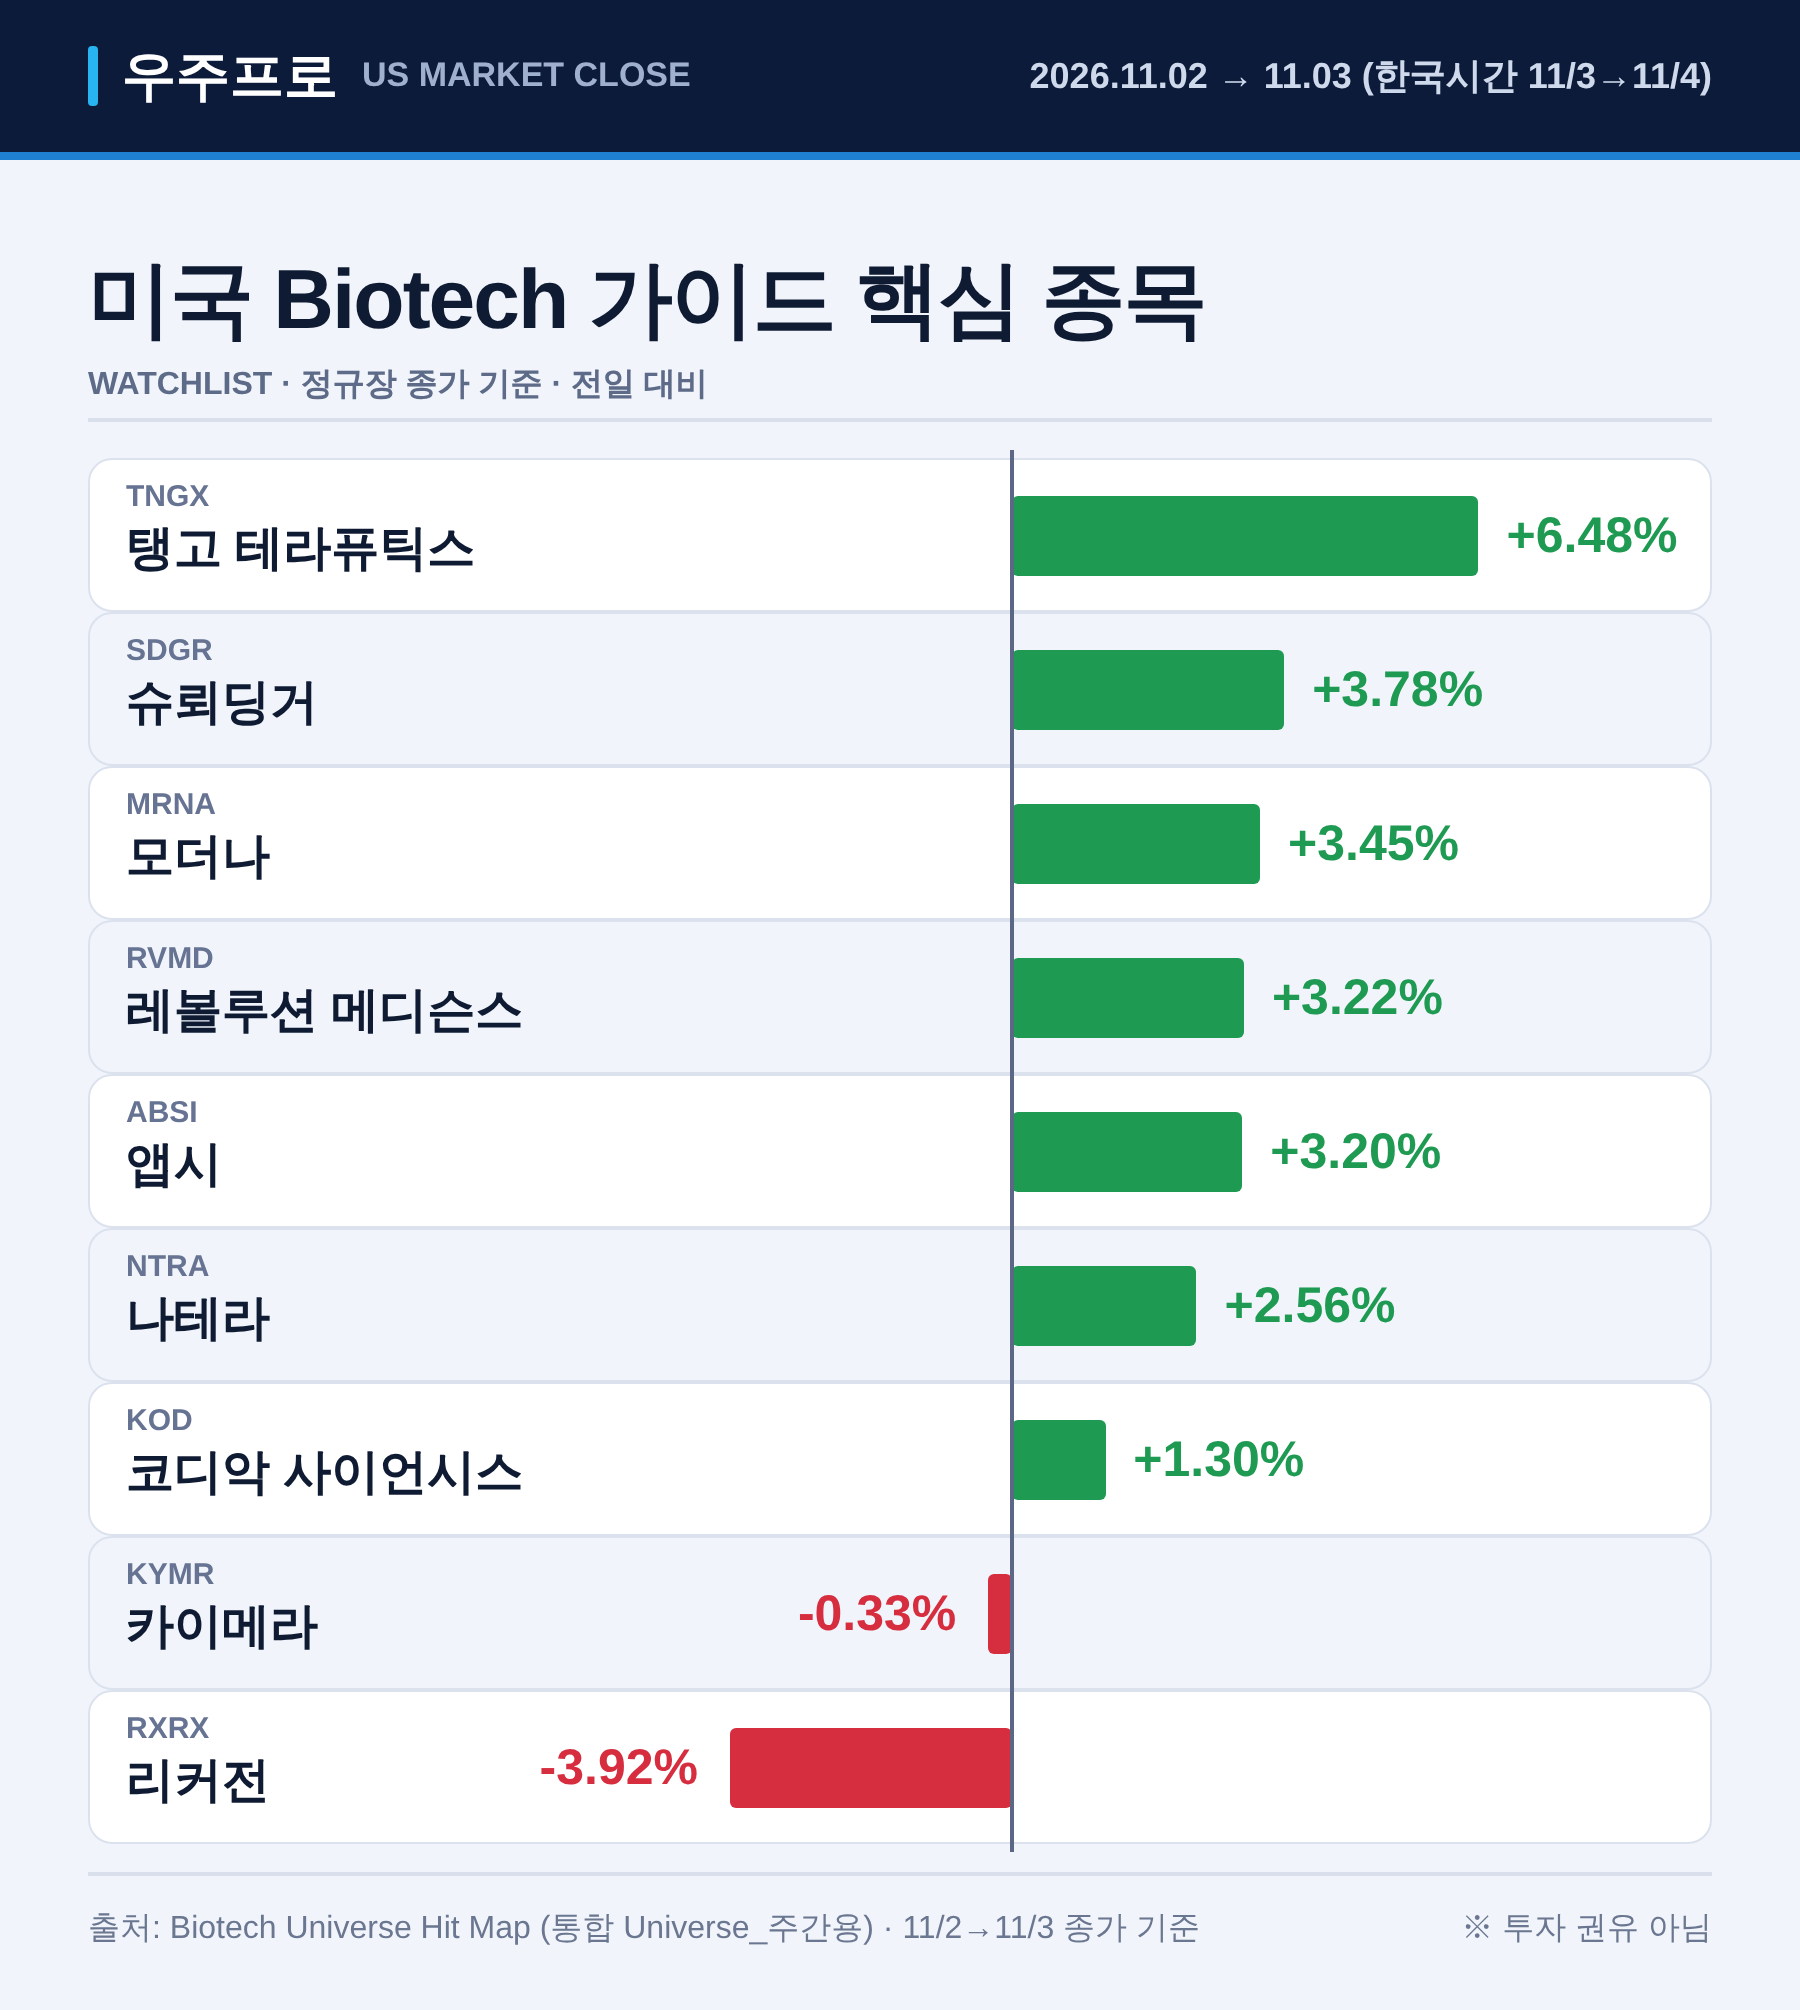
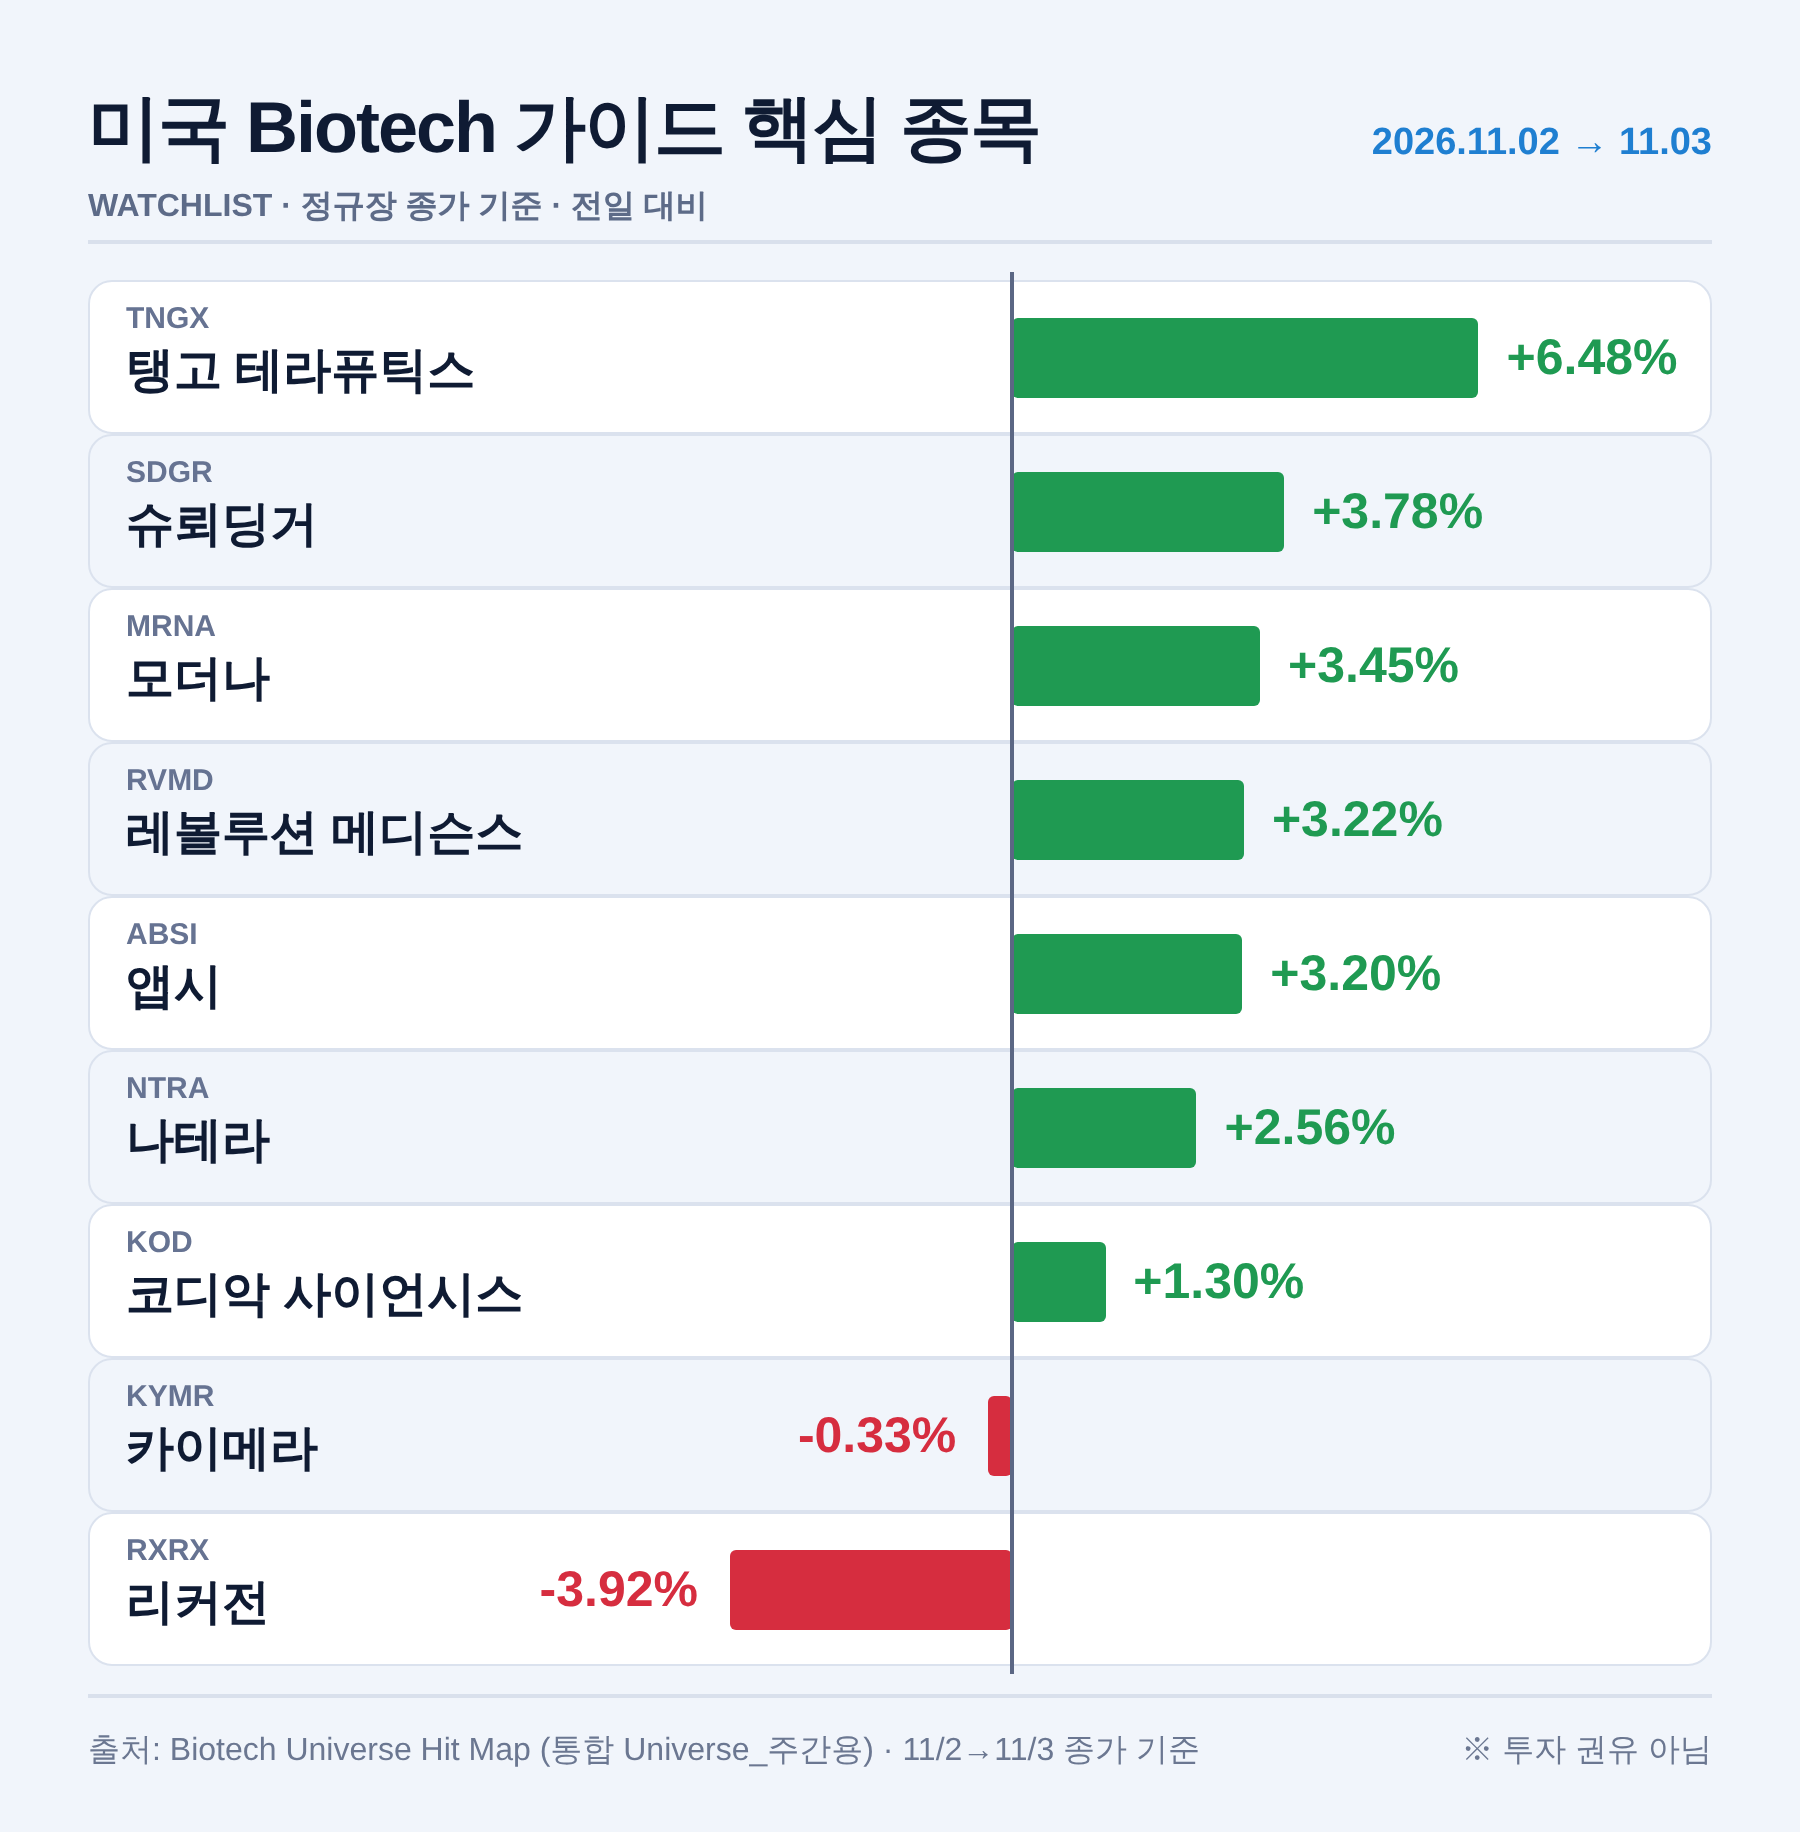
Tornado chart: remove top header bar, move period to title row
Claude-Session: https://claude.ai/code/session_01NG8EEkhpk8MGrziH94CW11

diff --git a/biotech_tornado.html b/biotech_tornado.html
@@ -7,8 +7,8 @@
 .hd .l i{width:5px;height:30px;background:#27b4f0;border-radius:2px}
 .hd .l small{font-size:17px;color:#9fb0cf;font-weight:700}
 .hd .r{color:#cfd9ec;font-size:18px;font-weight:700}
-.bd{padding:42px 44px 0}
-h1{margin:0;font-size:42px;font-weight:800;letter-spacing:-1px}
+.bd{padding:40px 44px 0}.top{display:flex;justify-content:space-between;align-items:flex-end}.per{white-space:nowrap;color:#1f7fd1;font-size:19px;font-weight:800;padding-bottom:6px}
+h1{margin:0;white-space:nowrap;font-size:36px;font-weight:800;letter-spacing:-1px}
 .sub{display:flex;justify-content:space-between;color:#5d6b88;font-weight:700;font-size:16px;margin-top:4px;padding-bottom:6px;border-bottom:2px solid #d9e0ec}
 .sub b{color:#1f7fd1}
 .rows{position:relative;margin-top:18px}
@@ -24,8 +24,7 @@ h1{margin:0;font-size:42px;font-weight:800;letter-spacing:-1px}
 .ft{margin-top:26px;color:#6b7791;font-size:16px;padding-bottom:6px}
 .src{border-top:2px solid #d9e0ec;margin-top:14px;padding:16px 0 30px;display:flex;justify-content:space-between;color:#6b7791;font-size:16px}
 </style></head><body><div id="c">
-<div class="hd"><div class="l"><i></i>우주프로 <small>US MARKET CLOSE</small></div><div class="r" id="per"></div></div>
-<div class="bd"><h1>미국 Biotech 가이드 핵심 종목</h1>
+<div class="bd"><div class="top"><h1>미국 Biotech 가이드 핵심 종목</h1><div class="per" id="per"></div></div>
 <div class="sub"><span>WATCHLIST · 정규장 종가 기준 · 전일 대비</span><b id="n"></b></div>
 <div class="rows" id="rows"><div class="axis" id="ax"></div></div>
 <div class="src"><span>출처: Biotech Universe Hit Map (통합 Universe_주간용) · 11/2→11/3 종가 기준</span><span>※ 투자 권유 아님</span></div></div></div>
@@ -34,7 +33,7 @@ const D=[["TNGX","탱고 테라퓨틱스",21.76,23.17],["SDGR","슈뢰딩거",26
 .map(d=>({t:d[0],n:d[1],p:d[2],q:d[3],c:(d[3]/d[2]-1)*100})).sort((a,b)=>b.c-a.c);
 const Z=505-44,S=36,R=document.getElementById('rows');
 document.getElementById('ax').style.left=Z+'px';
-document.getElementById('per').textContent='2026.11.02 → 11.03 (한국시간 11/3→11/4)';
+document.getElementById('per').textContent='2026.11.02 → 11.03';
 D.forEach((d,i)=>{const w=Math.abs(d.c)*S,up=d.c>=0,f=(up?'+':'')+d.c.toFixed(2)+'%';
 const r=document.createElement('div');r.className='row'+(i%2==0?' w':'');
 r.innerHTML=`<div class="t"><s>${d.t}</s><span>${d.n}</span></div><div class="bar ${up?'up':'dn'}" style="left:${up?Z:Z-w}px;width:${w}px"></div><div class="v ${up?'cu':'cd'}" style="${up?`left:${Z+w+14}px`:`right:${900-88-(Z-w)+14}px;text-align:right`}">${f}</div>`;
